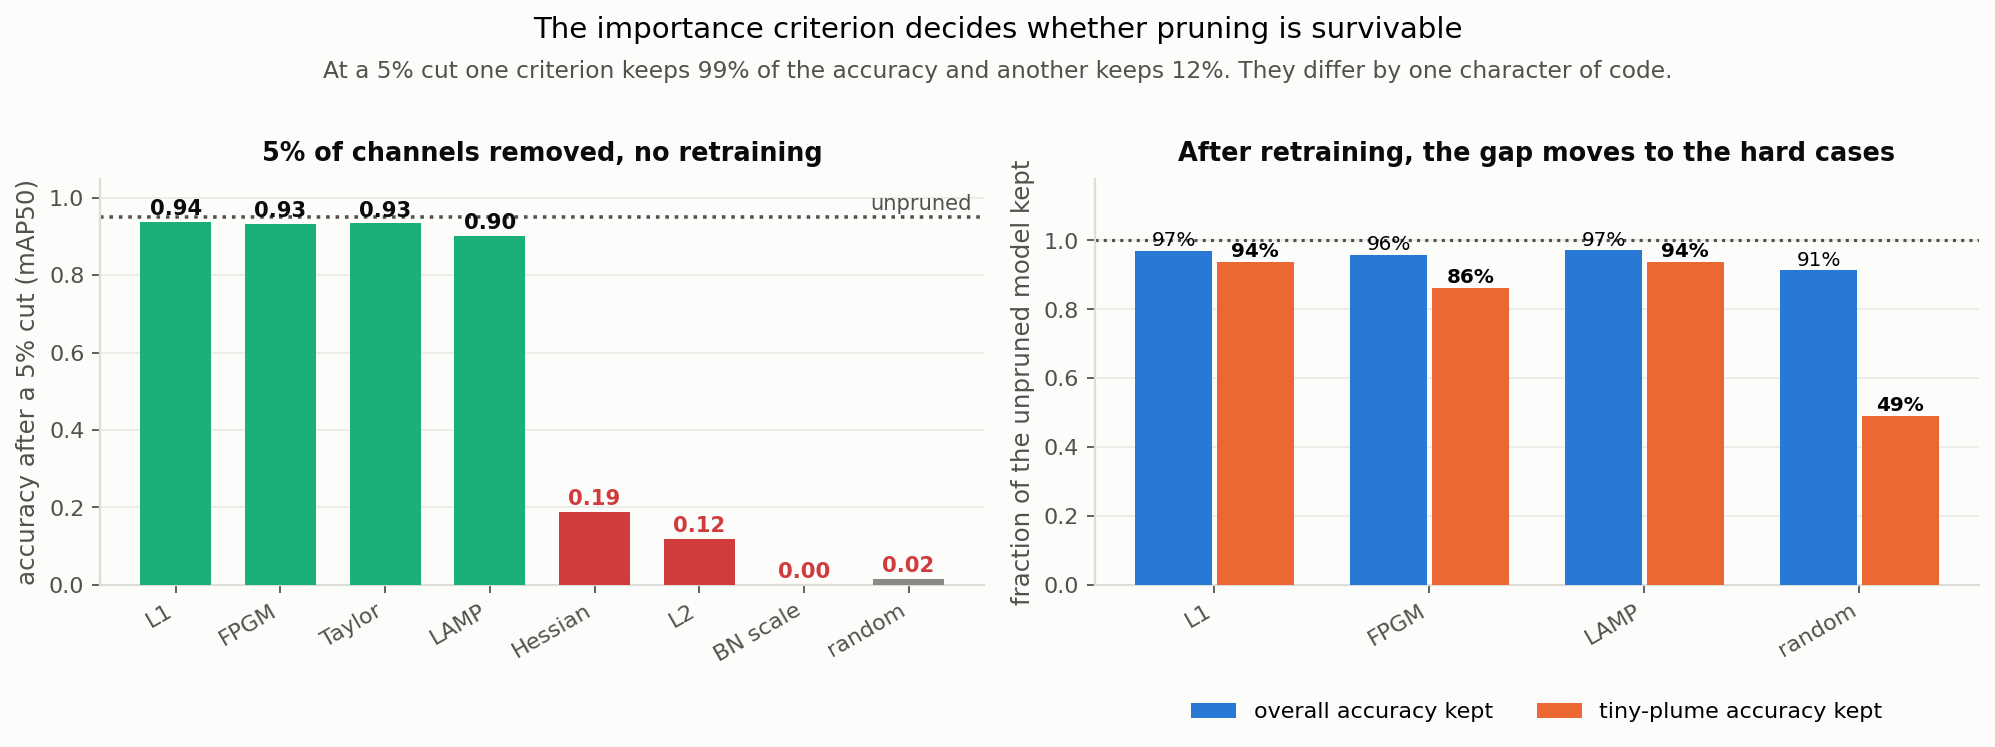
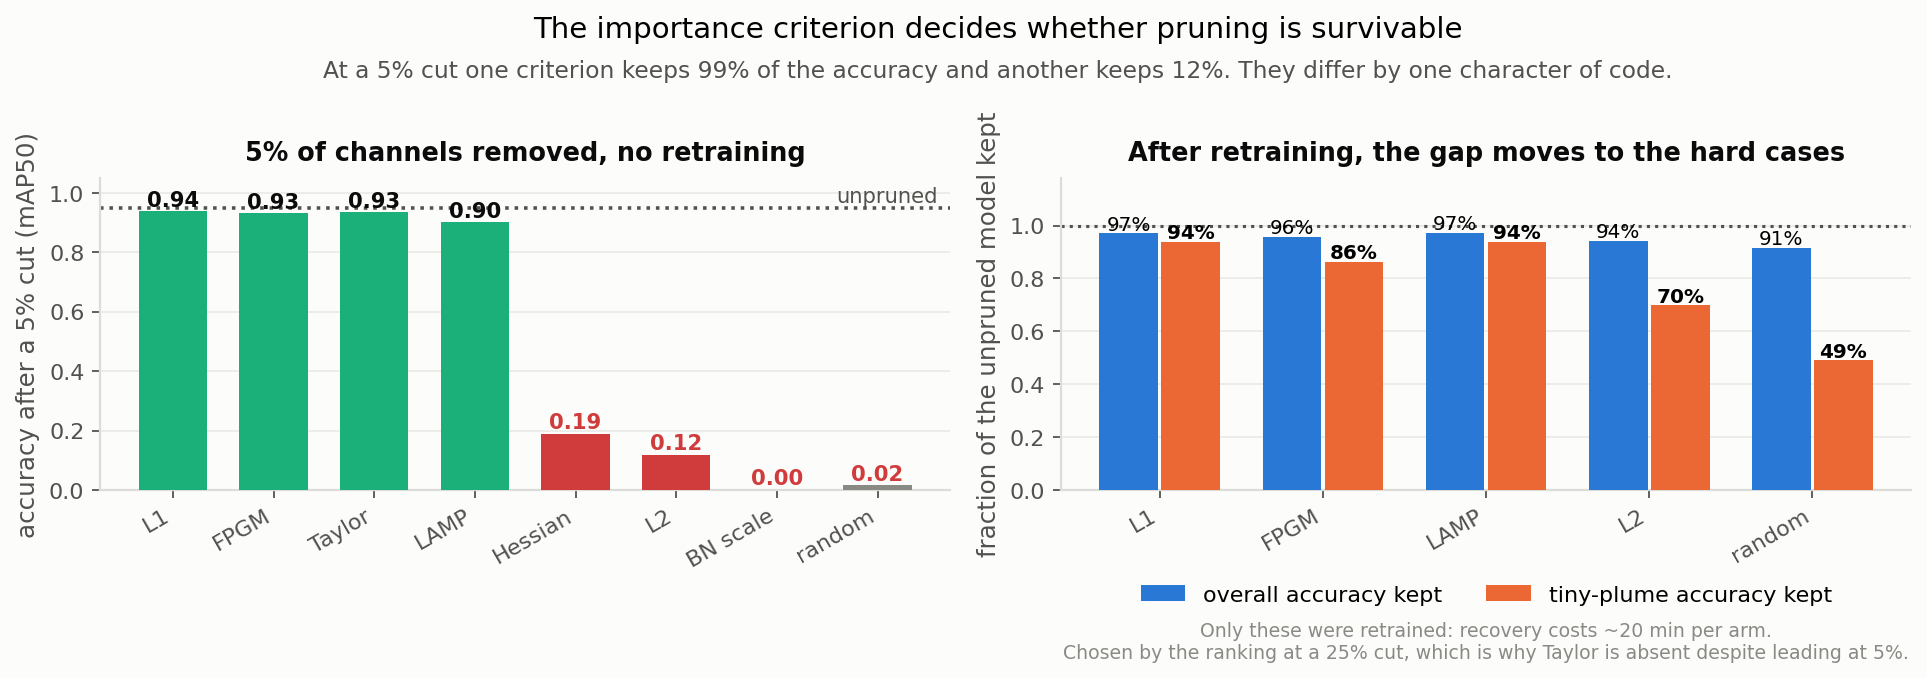
XP6 E2 figure: show L2 in the recovered panel and say why it is a subset
The two panels showed eight rules on the left and four on the right with no
explanation, which reads as an inconsistency rather than the deliberate
two-stage design it is: damage costs seconds, recovery costs about 20 minutes
per arm, so only the leaders plus the control were paid for.

Adds L2 to the right panel from the originally published record, so the arm this
page corrects stays visible in the same picture. It keeps 70% of its tiny-plume
accuracy where L1 and LAMP keep 94%.

Also records that the top-three selection was taken at a 25% cut and that the
ranking is not stable across ratios: Taylor leads at 5% and would have displaced
LAMP, so its absence reflects where the ranking was taken.

diff --git a/analysis/make_figures.py b/analysis/make_figures.py
@@ -709,6 +709,12 @@ def fig_xp06e2(records) -> Path | None:
             for c in order:
                 if f"_{c}_recovered" in r["model_id"]:
                     rec[c] = r
+    # L2 was retrained too, as the originally published arm, under a model_id
+    # that predates this naming. Including it keeps the arm this page corrects
+    # visible in the same panel rather than only in a table.
+    l2 = by_id(records, "dfire_yolov5s_pruned25_recovered")
+    if l2:
+        rec["l2"] = l2
     if rec:
         names = [c for c in order if c in rec]
         x = np.arange(len(names))
@@ -732,6 +738,13 @@ def fig_xp06e2(records) -> Path | None:
         ax.set_ylabel("fraction of the unpruned model kept")
         ax.set_title("After retraining, the gap moves to the hard cases",
                      fontsize=11.5, pad=8)
+        # Say why this panel is a subset: recovery costs ~20 min per arm against
+        # seconds for damage, so only the leaders plus the control were paid for.
+        ax.text(0.5, -0.42, "Only these were retrained: recovery costs ~20 min per arm.\n"
+                            "Chosen by the ranking at a 25% cut, which is why Taylor is "
+                            "absent despite leading at 5%.",
+                transform=ax.transAxes, ha="center", va="top",
+                fontsize=8.5, color=style.MUTED)
         ax.legend(loc="upper center", bbox_to_anchor=(0.5, -0.24), ncol=2)
         style.tidy(ax)
     else:

diff --git a/experiments/xp06_pruning/README.md b/experiments/xp06_pruning/README.md
@@ -171,6 +171,11 @@ it still should not be**, because the cheap knob (smaller pictures) is still ahe
 - **No speed number exists for anything new here.** It all needs the board.
 - **Equal cut ratio is not equal size or equal compute.** At 25%, LAMP lands at 3.91 M
   parameters while removing 20.1% of the arithmetic; FPGM lands at 4.55 M while removing 33.5%.
+- **Only five of the eight rules were retrained**, because recovery costs about 20 minutes per
+  arm against seconds for damage. The three retrained on merit were picked by their ranking at a
+  25% cut, and that ranking is not stable: **Taylor leads at 5% and would have displaced LAMP**,
+  so its absence from the recovered table is a consequence of where the ranking was taken, not
+  evidence that it is worse.
 - **BN scale scored worse than random, which is not a verdict on it.** It assumes training used
   a penalty that spreads the batch-norm scales apart. These weights had none, so the signal it
   reads does not exist. An unmet prerequisite, not a failure.
